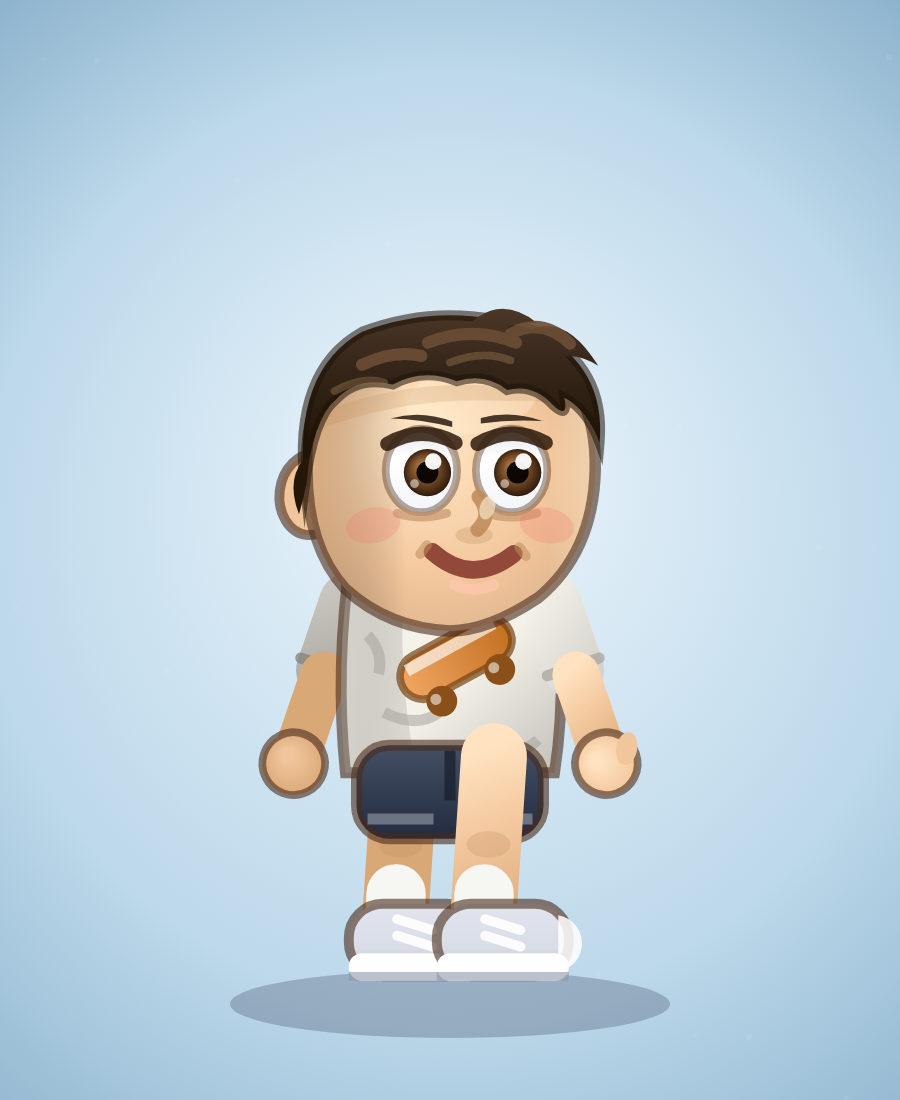
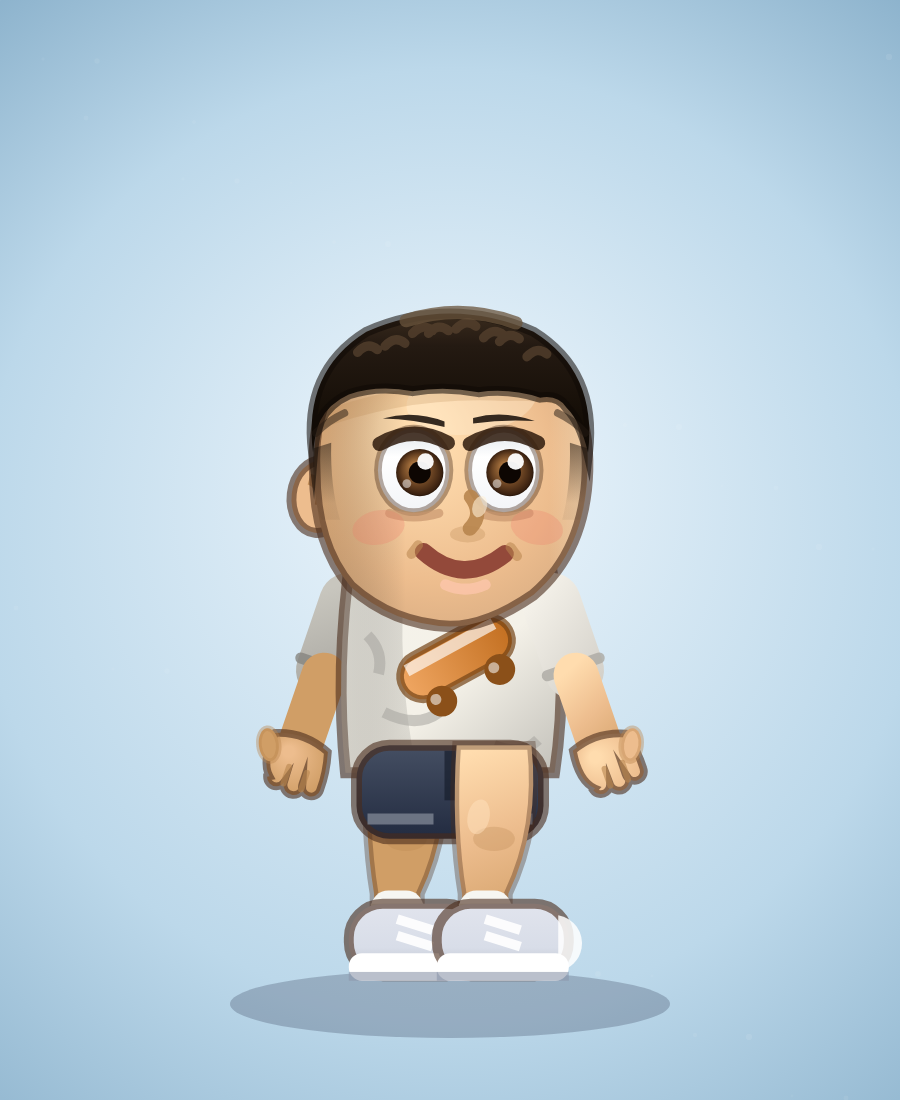
Rayan redesign from new reference photo + anatomy fixes
- Hair rebuilt as a modern short fade cut matching the new photo:
  skull-hugging dense top with curl texture strokes, tapered faded
  sides with scalp show-through, crisp barber line-up above the ears,
  straight natural front hairline (no long fringe); darker hair color
- Warmer skin palette matching the photo
- Head slimmed with matched hairline, smaller ear tucked to the side
- Eyes recentered symmetrically (fixes off-center look), matching
  brows/blink/lash positions; nose, cheeks and smile re-centered
- Hands: real palms with three fingers, finger separations and thumbs
  (both characters) instead of circle blobs
- Legs: tapered thigh-to-ankle shapes with knee shading and highlight,
  folded sock cuffs (Rayan); shaped legs with knee hint (Naya)
- Regenerated art pack from the updated design

Claude-Session: https://claude.ai/code/session_01WV3PCMXxFaSr6jYfzUPyqs

diff --git a/js/game/characters.js b/js/game/characters.js
@@ -11,14 +11,14 @@ window.RN = window.RN || {};
 (function () {
   const U = RN.U;
 
-  const SKIN = '#f2c69c';
-  const SKIN_HI = '#ffe3c0';
-  const SKIN_SHADE = '#d9a877';
-  const SKIN_DEEP = '#c08d5c';
+  const SKIN = '#edbd8e';
+  const SKIN_HI = '#ffdcae';
+  const SKIN_SHADE = '#d09e66';
+  const SKIN_DEEP = '#b8854e';
   const LINE = 'rgba(74,44,26,0.6)';
-  const HAIR = '#38281c';
-  const HAIR_DK = '#241708';
-  const HAIR_HI = '#6b4e35';
+  const HAIR = '#241a12';
+  const HAIR_DK = '#150e07';
+  const HAIR_HI = '#4a3826';
   const NAYA_SKIN = '#efc29c';
   const NAYA_SKIN_HI = '#ffdfc0';
   const NAYA_HAIR = '#2c1f14';
@@ -234,15 +234,30 @@ window.RN = window.RN || {};
     ctx.save();
     ctx.translate(ox, oy);
     ctx.rotate(ang * 0.6);
-    ctx.strokeStyle = front ? skinGrad(ctx, -3, 0, 3, 16) : SKIN_SHADE;
-    ctx.lineWidth = 6; ctx.lineCap = 'round';
-    ctx.beginPath(); ctx.moveTo(0, 0); ctx.lineTo(ang > 0 ? 3 : -1, 15); ctx.stroke();
-    // ركبة (لمسة ظل)
-    ctx.fillStyle = U.alpha(SKIN_DEEP, 0.25);
-    ctx.beginPath(); ctx.ellipse(ang > 0 ? 1.5 : -0.5, 8, 2, 1.2, 0, 0, 7); ctx.fill();
-    // جورب قصير
-    ctx.strokeStyle = '#f6f6f2'; ctx.lineWidth = 5.4;
-    ctx.beginPath(); ctx.moveTo(ang > 0 ? 2.6 : -0.9, 12.5); ctx.lineTo(ang > 0 ? 3 : -1, 14.5); ctx.stroke();
+    const ax = ang > 0 ? 2.6 : -0.8; // موضع الكاحل
+    // ساق مدببة: فخذ أعرض ينحدر لكاحل أنحف مع بطة خفيفة
+    ctx.fillStyle = front ? skinGrad(ctx, -3, 0, 3, 16) : SKIN_SHADE;
+    ctx.beginPath();
+    ctx.moveTo(-3.4, -1);
+    ctx.quadraticCurveTo(-3.9, 6.5, ax - 2.1, 12.5);
+    ctx.lineTo(ax - 2.1, 15.5);
+    ctx.lineTo(ax + 2.1, 15.5);
+    ctx.lineTo(ax + 2.1, 12.5);
+    ctx.quadraticCurveTo(4.2, 6.5, 3.4, -1);
+    ctx.closePath();
+    ctx.fill();
+    ctx.strokeStyle = 'rgba(74,44,26,0.35)'; ctx.lineWidth = 0.8;
+    ctx.stroke();
+    // ركبة (لمسة ظل + لمعة)
+    ctx.fillStyle = U.alpha(SKIN_DEEP, 0.28);
+    ctx.beginPath(); ctx.ellipse((ax) * 0.5 + 0.4, 7.5, 1.9, 1.1, 0, 0, 7); ctx.fill();
+    ctx.fillStyle = 'rgba(255,225,190,0.5)';
+    ctx.beginPath(); ctx.ellipse((ax) * 0.5 - 1, 5.5, 1, 1.6, 0.2, 0, 7); ctx.fill();
+    // جورب قصير بحافة مطوية
+    ctx.fillStyle = '#f6f6f2';
+    U.roundRect(ctx, ax - 2.4, 12.2, 4.8, 3.6, 1.6); ctx.fill();
+    ctx.fillStyle = '#e2e2da';
+    ctx.fillRect(ax - 2.4, 13.4, 4.8, 0.9);
     // حذاء رياضي
     ctx.save();
     ctx.translate(ang > 0 ? 3 : -1, 17);
@@ -284,19 +299,37 @@ window.RN = window.RN || {};
     ctx.beginPath(); ctx.moveTo(-2.5, 6.2); ctx.lineTo(2.5, 6.2); ctx.stroke();
     // ساعد ويد
     ctx.strokeStyle = front ? skinGrad(ctx, -2, 7, 2, 16) : SKIN_SHADE;
-    ctx.lineWidth = 4.3; ctx.beginPath(); ctx.moveTo(0, 7); ctx.lineTo(0, 14.5); ctx.stroke();
-    const hg = ctx.createRadialGradient(-0.8, 14.9, 0.5, 0, 15.5, 3.0);
+    ctx.lineWidth = 4.1; ctx.beginPath(); ctx.moveTo(0, 7); ctx.lineTo(0, 13.6); ctx.stroke();
+    // كف بأصابع (قبضة شبه مفتوحة)
+    const hg = ctx.createRadialGradient(-0.8, 14.6, 0.5, 0, 15.3, 3.2);
     hg.addColorStop(0, front ? SKIN_HI : SKIN);
     hg.addColorStop(1, front ? SKIN : SKIN_SHADE);
     ctx.fillStyle = hg;
-    ctx.beginPath(); ctx.arc(0, 15.5, 2.85, 0, 7); ctx.fill();
+    // راحة اليد
+    ctx.beginPath();
+    ctx.moveTo(-2.5, 13.4);
+    ctx.quadraticCurveTo(-2.9, 16.2, -1.7, 17.3);
+    // ثلاثة أصابع (نتوءات) عند الأسفل
+    ctx.arc(-1.1, 17.15, 0.85, Math.PI * 0.9, Math.PI * 0.1, true);
+    ctx.arc(0.6, 17.35, 0.9, Math.PI * 0.95, Math.PI * 0.05, true);
+    ctx.arc(2.2, 17.0, 0.85, Math.PI, 0, true);
+    ctx.quadraticCurveTo(3.1, 15.3, 2.6, 13.5);
+    ctx.quadraticCurveTo(0, 12.4, -2.5, 13.4);
+    ctx.closePath();
+    ctx.fill();
     ctx.strokeStyle = LINE; ctx.lineWidth = 0.7;
-    ctx.beginPath(); ctx.arc(0, 15.5, 2.85, 0, 7); ctx.stroke();
+    ctx.stroke();
+    // فواصل الأصابع
+    ctx.strokeStyle = U.alpha(SKIN_DEEP, 0.6); ctx.lineWidth = 0.55;
+    ctx.beginPath();
+    ctx.moveTo(-0.3, 17.5); ctx.lineTo(-0.3, 15.9);
+    ctx.moveTo(1.4, 17.5); ctx.lineTo(1.4, 15.9);
+    ctx.stroke();
     // إبهام
-    if (front) {
-      ctx.fillStyle = SKIN;
-      ctx.beginPath(); ctx.ellipse(2.2, 14.8, 0.95, 1.5, 0.5, 0, 7); ctx.fill();
-    }
+    ctx.fillStyle = front ? SKIN : SKIN_SHADE;
+    ctx.beginPath(); ctx.ellipse(front ? 2.7 : -2.7, 14.6, 0.9, 1.5, front ? 0.45 : -0.45, 0, 7); ctx.fill();
+    ctx.strokeStyle = U.alpha(SKIN_DEEP, 0.4); ctx.lineWidth = 0.5;
+    ctx.beginPath(); ctx.ellipse(front ? 2.7 : -2.7, 14.6, 0.9, 1.5, front ? 0.45 : -0.45, 0, 7); ctx.stroke();
     // شفرة الطاقة
     if (front && p.armPose === 'swing') {
       ctx.globalCompositeOperation = 'screen';
@@ -326,23 +359,23 @@ window.RN = window.RN || {};
 
     // ---- أذن (خلف الوجه — يظهر طرفها الخارجي فقط) ----
     ctx.fillStyle = SKIN;
-    ctx.beginPath(); ctx.ellipse(-12.6, 1.2, 2.9, 3.7, 0.12, 0, 7); ctx.fill();
+    ctx.beginPath(); ctx.ellipse(-11.9, 1.4, 2.5, 3.3, 0.12, 0, 7); ctx.fill();
     ctx.strokeStyle = LINE; ctx.lineWidth = 0.9;
-    ctx.beginPath(); ctx.ellipse(-12.6, 1.2, 2.9, 3.7, 0.12, 0, 7); ctx.stroke();
+    ctx.beginPath(); ctx.ellipse(-11.9, 1.4, 2.5, 3.3, 0.12, 0, 7); ctx.stroke();
     ctx.strokeStyle = U.alpha(SKIN_DEEP, 0.8); ctx.lineWidth = 1;
-    ctx.beginPath(); ctx.moveTo(-13.6, -0.6); ctx.quadraticCurveTo(-12, -0.2, -12.4, 2); ctx.stroke();
+    ctx.beginPath(); ctx.moveTo(-12.8, -0.2); ctx.quadraticCurveTo(-11.4, 0.2, -11.8, 2.2); ctx.stroke();
 
     // ---- شكل الوجه: دائرة بذقن ناعم ----
     const facePath = () => {
       ctx.beginPath();
-      ctx.moveTo(-13, -1);
-      ctx.quadraticCurveTo(-13.4, -9, -7.5, -12.2);
-      ctx.quadraticCurveTo(0, -14.4, 7.5, -12.2);
-      ctx.quadraticCurveTo(13.4, -9, 13.2, -1);
-      ctx.quadraticCurveTo(13, 6.5, 8, 10.6);   // خد أمامي
-      ctx.quadraticCurveTo(3.5, 13.6, 0, 13.6); // ذقن
-      ctx.quadraticCurveTo(-5.5, 13.4, -9.5, 9.8);
-      ctx.quadraticCurveTo(-13, 6, -13, -1);
+      ctx.moveTo(-12.3, -1);
+      ctx.quadraticCurveTo(-12.7, -8.8, -7.2, -11.9);
+      ctx.quadraticCurveTo(0, -14, 7.2, -11.9);
+      ctx.quadraticCurveTo(12.7, -8.8, 12.5, -1);
+      ctx.quadraticCurveTo(12.3, 6.3, 7.6, 10.3);  // خد أمامي
+      ctx.quadraticCurveTo(3.4, 13.2, 0, 13.2);    // ذقن
+      ctx.quadraticCurveTo(-5.2, 13, -9, 9.6);
+      ctx.quadraticCurveTo(-12.3, 5.8, -12.3, -1);
       ctx.closePath();
     };
     // تدرج جلد أساسي
@@ -385,70 +418,76 @@ window.RN = window.RN || {};
     ctx.strokeStyle = LINE; ctx.lineWidth = 1.05;
     ctx.stroke();
 
-    // ---- الشعر: كتلة + خصلات فردية ----
-    const sway = (p.hairSway || 0) * 1.6 + Math.sin(t * 3) * 0.4;
-    const hg2 = ctx.createLinearGradient(0, -17, 0, -4);
-    hg2.addColorStop(0, '#513c29');
+    // ---- الشعر: قصة قصيرة حديثة (Fade) من صورة ريان ----
+    // جوانب مدرّجة قصيرة جدًا (تلاشٍ) تظهر خلفية فروة أفتح
+    const fade = ctx.createLinearGradient(0, -6, 0, 2);
+    fade.addColorStop(0, U.alpha(HAIR, 0.75));
+    fade.addColorStop(1, U.alpha(HAIR, 0.06));
+    ctx.fillStyle = fade;
+    ctx.beginPath();
+    ctx.moveTo(-12.4, -3);
+    ctx.quadraticCurveTo(-12.6, 1, -11.7, 3.5);
+    ctx.lineTo(-10, 3.5);
+    ctx.quadraticCurveTo(-10.9, 0.5, -10.8, -3.5);
+    ctx.closePath(); ctx.fill();
+    ctx.beginPath();
+    ctx.moveTo(12.5, -3);
+    ctx.quadraticCurveTo(12.6, 1, 11.8, 3.5);
+    ctx.lineTo(10.2, 3.5);
+    ctx.quadraticCurveTo(11, 0.5, 10.9, -3.5);
+    ctx.closePath(); ctx.fill();
+    // الكتلة العلوية: قبعة شعر كثيفة قصيرة تلتصق بالجمجمة
+    const hg2 = ctx.createLinearGradient(0, -17.5, 0, -6);
+    hg2.addColorStop(0, HAIR_HI);
     hg2.addColorStop(0.45, HAIR);
     hg2.addColorStop(1, HAIR_DK);
     ctx.fillStyle = hg2;
-    // الكتلة الأساسية
     ctx.beginPath();
-    ctx.moveTo(-13.2, 0.5);
-    ctx.quadraticCurveTo(-14.4, -10, -8, -13.6);
-    ctx.quadraticCurveTo(0, -16.6, 8, -13.6);
-    ctx.quadraticCurveTo(14.2, -10.4, 13.6, -3.5);
-    // حافة أمامية بخصلات مسننة فوق الجبهة
-    ctx.quadraticCurveTo(12.5, -6.5, 10.4, -7.6);
-    ctx.quadraticCurveTo(10.8, -5.6, 9.4, -6.9);
-    ctx.quadraticCurveTo(7.6, -8.9, 5.2, -8.3);
-    ctx.quadraticCurveTo(3.2, -9.9, 0.6, -9.1);
-    ctx.quadraticCurveTo(-2.4, -10.3, -5.2, -8.8);
-    ctx.quadraticCurveTo(-8.4, -9.6, -10.4, -7.4);
-    ctx.quadraticCurveTo(-12.4, -5.8, -13.2, 0.5);
+    ctx.moveTo(-12.45, -2.6);
+    ctx.quadraticCurveTo(-13.4, -10, -7.6, -13.6);
+    ctx.quadraticCurveTo(0, -16.9, 7.6, -13.6);
+    ctx.quadraticCurveTo(13.4, -10, 12.55, -2.6);
+    // خط الجبهة الأمامي: حافة شبه مستقيمة بتعرج خفيف (بلا غرّة)
+    ctx.quadraticCurveTo(11.9, -5.4, 10.6, -6.7);
+    ctx.quadraticCurveTo(9.8, -7.9, 8.2, -7.6);
+    ctx.quadraticCurveTo(5.4, -8.5, 2.6, -8.1);
+    ctx.quadraticCurveTo(-0.4, -8.7, -3.4, -8.2);
+    ctx.quadraticCurveTo(-6.6, -8.8, -9.2, -7.9);
+    ctx.quadraticCurveTo(-11, -7.1, -11.8, -5.5);
+    ctx.quadraticCurveTo(-12.3, -4.4, -12.45, -2.6);
     ctx.closePath();
     ctx.fill();
-    ctx.strokeStyle = 'rgba(30,18,8,0.55)'; ctx.lineWidth = 0.9;
+    ctx.strokeStyle = 'rgba(15,10,5,0.55)'; ctx.lineWidth = 0.9;
     ctx.stroke();
-    // غرة أمامية مرفوعة (خصلتان) تتمايل
-    ctx.fillStyle = hg2;
+    // نسيج الشعر القصير: أقواس صغيرة كثيفة على الكتلة العلوية
+    ctx.strokeStyle = U.alpha('#5a4530', 0.7);
+    ctx.lineWidth = 0.85; ctx.lineCap = 'round';
     ctx.beginPath();
-    ctx.moveTo(4.6, -11.5);
-    ctx.quadraticCurveTo(9.5 + sway, -17.2, 13.6 + sway * 0.7, -10.5);
-    ctx.quadraticCurveTo(10.6, -12.4, 8.2, -10.2);
-    ctx.quadraticCurveTo(6.6, -9.4, 4.6, -11.5);
-    ctx.closePath(); ctx.fill();
-    ctx.beginPath();
-    ctx.moveTo(0.5, -12.8);
-    ctx.quadraticCurveTo(4 + sway * 0.6, -17.6, 8 + sway * 0.5, -14.4);
-    ctx.quadraticCurveTo(4.5, -14.6, 2.4, -11.8);
-    ctx.closePath(); ctx.fill();
-    // خصلة خلف الأذن
-    ctx.beginPath();
-    ctx.moveTo(-12.8, -2.5);
-    ctx.quadraticCurveTo(-15.2 - sway * 0.7, -0.5, -13.8 - sway * 0.4, 3);
-    ctx.quadraticCurveTo(-13, 0.5, -12.9, -1);
-    ctx.closePath(); ctx.fill();
-    // لمعات خصل (خطوط شعر فردية)
-    ctx.strokeStyle = U.alpha(HAIR_HI, 0.9);
-    ctx.lineWidth = 1.1; ctx.lineCap = 'round';
-    ctx.beginPath();
-    ctx.moveTo(-2, -12.6); ctx.quadraticCurveTo(2, -14.2, 6, -12.6);
-    ctx.moveTo(-8, -10.6); ctx.quadraticCurveTo(-5, -12, -2.6, -11.4);
-    ctx.moveTo(5.5, -13.4); ctx.quadraticCurveTo(8.5 + sway * 0.5, -15, 11 + sway * 0.5, -12.5);
+    for (let k = 0; k < 8; k++) {
+      const hx = -8.4 + k * 2.15 + ((k * 7) % 3) * 0.35;
+      const hy = -11.2 - Math.sin(((k + 0.5) / 8) * Math.PI) * 2.7 + ((k * 5) % 2) * 0.4;
+      ctx.moveTo(hx, hy);
+      ctx.quadraticCurveTo(hx + 0.9, hy - 1.0, hx + 1.8, hy - 0.25);
+    }
     ctx.stroke();
-    ctx.strokeStyle = U.alpha('#8a6a48', 0.5);
-    ctx.lineWidth = 0.7;
+    // لمعة إضاءة علوية خفيفة
+    ctx.strokeStyle = U.alpha('#6a543c', 0.75);
+    ctx.lineWidth = 1.2;
     ctx.beginPath();
-    ctx.moveTo(-10.5, -8.2); ctx.quadraticCurveTo(-8, -9.6, -6, -9);
-    ctx.moveTo(0, -10.8); ctx.quadraticCurveTo(3, -12, 5.5, -11);
+    ctx.moveTo(-4, -14.6); ctx.quadraticCurveTo(1, -16.2, 6, -14.4);
+    ctx.stroke();
+    // خط حلاقة حاد فوق الأذن (تشطيب الحلاق)
+    ctx.strokeStyle = U.alpha(HAIR, 0.5); ctx.lineWidth = 0.7;
+    ctx.beginPath();
+    ctx.moveTo(-12.2, -4.4); ctx.quadraticCurveTo(-11.1, -5.5, -9.6, -6.2);
+    ctx.moveTo(12.3, -4.4); ctx.quadraticCurveTo(11.3, -5.5, 9.8, -6.2);
     ctx.stroke();
 
     // ---- عيون زجاجية ----
     const lookX = U.clamp(fx.lookX !== undefined ? fx.lookX : 0.5, -1, 1);
     const lookY = U.clamp(fx.lookY || 0, -1, 1);
     if (p.eyes === 'open') {
-      for (const ex of [5.6, -2.6]) {
+      for (const ex of [4.9, -3.3]) {
         // بياض بظل جفن علوي
         const wg = ctx.createLinearGradient(0, -4.8, 0, 2.6);
         wg.addColorStop(0, '#dfe4ea');
@@ -484,21 +523,21 @@ window.RN = window.RN || {};
     } else {
       ctx.strokeStyle = '#4a2f1d'; ctx.lineWidth = 1.6; ctx.lineCap = 'round';
       ctx.beginPath();
-      ctx.moveTo(2.6, -0.6); ctx.quadraticCurveTo(5.6, 0.8, 8.4, -0.6);
-      ctx.moveTo(-5.4, -0.6); ctx.quadraticCurveTo(-2.6, 0.8, 0.2, -0.6);
+      ctx.moveTo(2.1, -0.6); ctx.quadraticCurveTo(4.9, 0.8, 7.7, -0.6);
+      ctx.moveTo(-6.1, -0.6); ctx.quadraticCurveTo(-3.3, 0.8, -0.5, -0.6);
       ctx.stroke();
       // رموش مغلقة
       ctx.lineWidth = 0.8;
       ctx.beginPath();
-      ctx.moveTo(7.8, 0); ctx.lineTo(8.8, 0.8);
-      ctx.moveTo(-4.9, 0); ctx.lineTo(-5.9, 0.8);
+      ctx.moveTo(7.1, 0); ctx.lineTo(8.1, 0.8);
+      ctx.moveTo(-5.6, 0); ctx.lineTo(-6.6, 0.8);
       ctx.stroke();
     }
     // ---- حواجب رفيعة مقوسة ----
     ctx.fillStyle = U.alpha(HAIR, 0.92);
     const browY = p.mouth === 'grit' ? -4.9 : p.mouth === 'sad' ? -5.0 : -5.6;
     const tilt = p.mouth === 'grit' ? 0.9 : p.mouth === 'sad' ? -0.7 : -0.3;
-    for (const [bx, dir] of [[5.6, 1], [-2.6, -1]]) {
+    for (const [bx, dir] of [[4.9, 1], [-3.3, -1]]) {
       ctx.beginPath();
       ctx.moveTo(bx - 2.8 * dir, browY + tilt * 0.55 * dir);
       ctx.quadraticCurveTo(bx, browY - 0.9, bx + 2.8 * dir, browY - tilt * 0.4 * dir);
@@ -507,26 +546,26 @@ window.RN = window.RN || {};
     }
     // ---- أنف بظل ولمعة ----
     ctx.strokeStyle = U.alpha(SKIN_DEEP, 0.9); ctx.lineWidth = 1.3; ctx.lineCap = 'round';
-    ctx.beginPath(); ctx.moveTo(2.6, 1.4); ctx.quadraticCurveTo(3.9, 3.1, 2.5, 4.4); ctx.stroke();
+    ctx.beginPath(); ctx.moveTo(1.9, 1.4); ctx.quadraticCurveTo(3.1, 3.0, 1.8, 4.3); ctx.stroke();
     ctx.fillStyle = U.alpha(SKIN_DEEP, 0.28);
-    ctx.beginPath(); ctx.ellipse(2.2, 4.9, 1.7, 0.8, 0, 0, 7); ctx.fill();
+    ctx.beginPath(); ctx.ellipse(1.6, 4.8, 1.6, 0.75, 0, 0, 7); ctx.fill();
     ctx.fillStyle = 'rgba(255,240,215,0.6)';
-    ctx.beginPath(); ctx.ellipse(3.4, 2.4, 0.7, 1.1, 0.3, 0, 7); ctx.fill();
+    ctx.beginPath(); ctx.ellipse(2.7, 2.3, 0.65, 1.0, 0.3, 0, 7); ctx.fill();
     // ---- خدود ----
     ctx.fillStyle = 'rgba(240,120,105,0.25)';
-    ctx.beginPath(); ctx.ellipse(8.8, 4, 2.5, 1.6, 0.2, 0, 7); ctx.ellipse(-7, 4, 2.5, 1.6, -0.2, 0, 7); ctx.fill();
+    ctx.beginPath(); ctx.ellipse(7.9, 4.2, 2.4, 1.55, 0.2, 0, 7); ctx.ellipse(-6.5, 4.2, 2.4, 1.55, -0.2, 0, 7); ctx.fill();
     // ---- فم ----
     ctx.strokeStyle = '#93493a'; ctx.lineWidth = 1.6; ctx.lineCap = 'round';
     if (p.mouth === 'smile') {
-      ctx.beginPath(); ctx.moveTo(-1.6, 6.4); ctx.quadraticCurveTo(2, 9.6, 5.8, 6.6); ctx.stroke();
+      ctx.beginPath(); ctx.moveTo(-2.4, 6.4); ctx.quadraticCurveTo(1.2, 9.6, 5.0, 6.6); ctx.stroke();
       // شفة سفلية (لمعة)
       ctx.strokeStyle = 'rgba(255,200,175,0.7)'; ctx.lineWidth = 1;
-      ctx.beginPath(); ctx.moveTo(0.4, 9.4); ctx.quadraticCurveTo(2.2, 10.2, 4, 9.4); ctx.stroke();
+      ctx.beginPath(); ctx.moveTo(-0.4, 9.4); ctx.quadraticCurveTo(1.4, 10.2, 3.2, 9.4); ctx.stroke();
       // غمازتا الابتسامة
       ctx.strokeStyle = U.alpha(SKIN_DEEP, 0.55); ctx.lineWidth = 0.9;
       ctx.beginPath();
-      ctx.moveTo(-2.1, 5.8); ctx.lineTo(-2.7, 6.6);
-      ctx.moveTo(6.3, 6.0); ctx.lineTo(6.9, 6.8);
+      ctx.moveTo(-2.9, 5.8); ctx.lineTo(-3.5, 6.6);
+      ctx.moveTo(5.5, 6.0); ctx.lineTo(6.1, 6.8);
       ctx.stroke();
     } else if (p.mouth === 'grin' || p.mouth === 'open') {
       ctx.fillStyle = '#6e2f26';
@@ -647,8 +686,22 @@ window.RN = window.RN || {};
     // ---- أرجل + جوارب بكشكشة + حذاء أبيض ----
     const lg = ctx.createLinearGradient(-2, -16, 2, -4);
     lg.addColorStop(0, NAYA_SKIN_HI); lg.addColorStop(1, U.shade(NAYA_SKIN, -0.1));
-    ctx.strokeStyle = lg; ctx.lineWidth = 5; ctx.lineCap = 'round';
-    ctx.beginPath(); ctx.moveTo(-3.5, -16); ctx.lineTo(-3.5, -5); ctx.moveTo(3.5, -16); ctx.lineTo(3.5, -5); ctx.stroke();
+    ctx.fillStyle = lg;
+    for (const sx of [-3.5, 3.5]) {
+      ctx.beginPath();
+      ctx.moveTo(sx - 2.6, -16);
+      ctx.quadraticCurveTo(sx - 2.9, -10, sx - 1.75, -5);
+      ctx.lineTo(sx + 1.75, -5);
+      ctx.quadraticCurveTo(sx + 2.9, -10, sx + 2.6, -16);
+      ctx.closePath();
+      ctx.fill();
+      ctx.strokeStyle = 'rgba(74,44,26,0.3)'; ctx.lineWidth = 0.7;
+      ctx.stroke();
+      // ركبة صغيرة
+      ctx.fillStyle = 'rgba(190,140,95,0.3)';
+      ctx.beginPath(); ctx.ellipse(sx, -10, 1.3, 0.8, 0, 0, 7); ctx.fill();
+      ctx.fillStyle = lg;
+    }
     // جورب بكشكشة
     ctx.strokeStyle = '#ffffff'; ctx.lineWidth = 5.4;
     ctx.beginPath(); ctx.moveTo(-3.5, -7.5); ctx.lineTo(-3.5, -5.5); ctx.moveTo(3.5, -7.5); ctx.lineTo(3.5, -5.5); ctx.stroke();
@@ -1007,13 +1060,31 @@ window.RN = window.RN || {};
     ctx.strokeStyle = ag;
     ctx.lineWidth = 4.2; ctx.lineCap = 'round';
     ctx.beginPath(); ctx.moveTo(0, 0); ctx.lineTo(0, 12); ctx.stroke();
-    const hg = ctx.createRadialGradient(-0.7, 12.4, 0.3, 0, 13, 3);
+    const hg = ctx.createRadialGradient(-0.7, 12.2, 0.3, 0, 12.8, 3);
     hg.addColorStop(0, front ? NAYA_SKIN_HI : NAYA_SKIN);
     hg.addColorStop(1, front ? NAYA_SKIN : U.shade(NAYA_SKIN, -0.14));
     ctx.fillStyle = hg;
-    ctx.beginPath(); ctx.arc(0, 13, 2.9, 0, 7); ctx.fill();
-    ctx.strokeStyle = 'rgba(70,42,26,0.3)'; ctx.lineWidth = 0.6;
-    ctx.beginPath(); ctx.arc(0, 13, 2.9, 0, 7); ctx.stroke();
+    // كف صغير بأصابع
+    ctx.beginPath();
+    ctx.moveTo(-2.1, 11.3);
+    ctx.quadraticCurveTo(-2.5, 13.6, -1.5, 14.5);
+    ctx.arc(-0.9, 14.4, 0.7, Math.PI * 0.9, Math.PI * 0.1, true);
+    ctx.arc(0.5, 14.6, 0.75, Math.PI * 0.95, Math.PI * 0.05, true);
+    ctx.arc(1.8, 14.3, 0.7, Math.PI, 0, true);
+    ctx.quadraticCurveTo(2.6, 12.9, 2.2, 11.4);
+    ctx.quadraticCurveTo(0, 10.5, -2.1, 11.3);
+    ctx.closePath();
+    ctx.fill();
+    ctx.strokeStyle = 'rgba(70,42,26,0.35)'; ctx.lineWidth = 0.6;
+    ctx.stroke();
+    ctx.strokeStyle = 'rgba(190,140,95,0.55)'; ctx.lineWidth = 0.45;
+    ctx.beginPath();
+    ctx.moveTo(-0.2, 14.7); ctx.lineTo(-0.2, 13.4);
+    ctx.moveTo(1.1, 14.7); ctx.lineTo(1.1, 13.4);
+    ctx.stroke();
+    // إبهام
+    ctx.fillStyle = front ? NAYA_SKIN : U.shade(NAYA_SKIN, -0.1);
+    ctx.beginPath(); ctx.ellipse(front ? 2.3 : -2.3, 12.1, 0.7, 1.2, front ? 0.45 : -0.45, 0, 7); ctx.fill();
     // سوار خرز
     ctx.fillStyle = '#ffe08a';
     ctx.beginPath(); ctx.arc(-1.1, 9, 1.05, 0, 7); ctx.fill();
